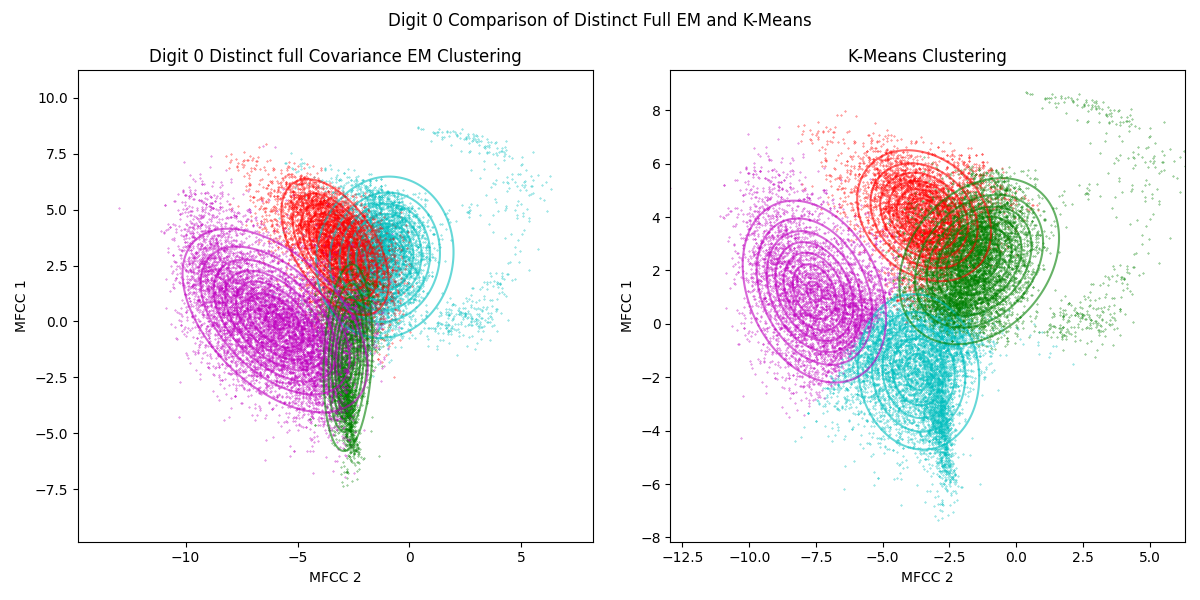
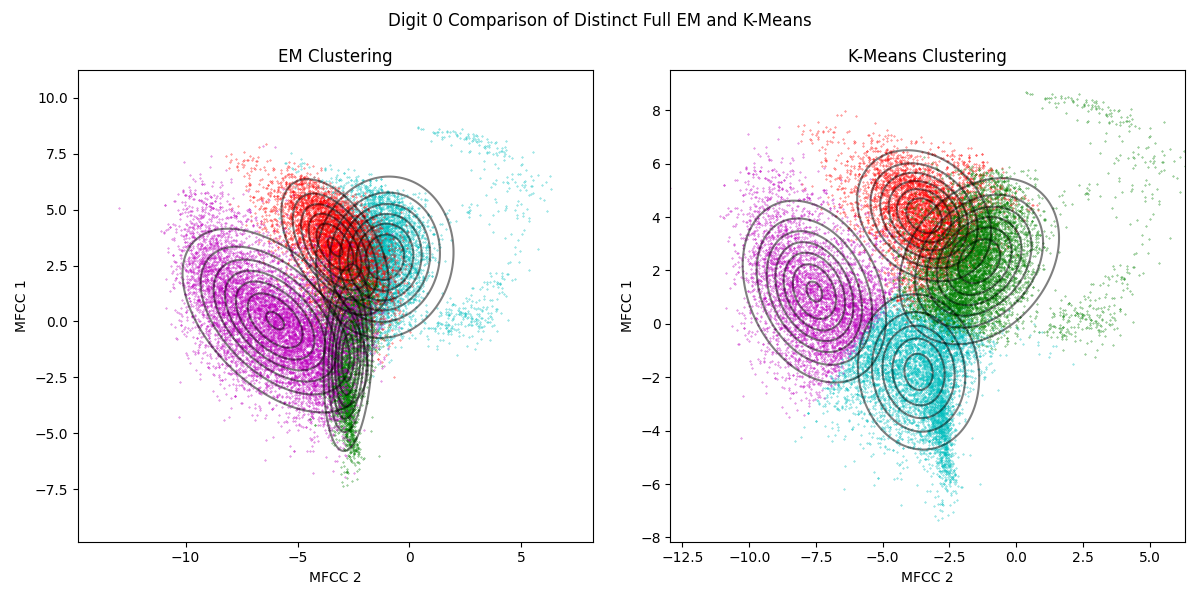
Refactor plotting functions

Changed region(s): [[0.6167, 0.24, 0.8942, 0.75], [0.1542, 0.27, 0.37, 0.75], [0.1233, 0.06, 0.4317, 0.12]]

diff --git a/src/analyzer.py b/src/analyzer.py
@@ -93,7 +93,7 @@ class Analyzer:
                 else:
                     ax.scatter(coords[:, 0], coords[:, 1], s=.1, color=c, alpha=.8)
                 cov = get_comp_covariance(second_comp - 1, first_comp - 1, cluster_info[key]["cov"])
-                plot_kmeans_contours(coords, cov, c, ax)
+                plot_kmeans_contours(coords, cov, ax)
                 color_ind += 1
             # ax.set_title("MFCC " + str(first_comp) + "(y) vs. MFCC" + str(second_comp) + "(x)")
             if ax is None:
@@ -104,7 +104,7 @@ class Analyzer:
                 ax.set_title("K-Means Clustering")
                 ax.set_xlabel("MFCC " + str(second_comp))
                 ax.set_ylabel("MFCC " + str(first_comp))
-                ax.axis("equal")
+                ax.axis('equal')
         # fig.suptitle("K-Means GMMs for Various 2D Plots for Digit " + str(token))
         # plt.tight_layout()
 
@@ -128,14 +128,14 @@ class Analyzer:
                 else:
                     plt.scatter(coords[:, 0], coords[:, 1], s=.1, c=c, alpha=.8)
                 cov = get_comp_covariance(second_comp - 1, first_comp - 1, cluster_info[key]["cov"])
-                plot_em_contours([key[second_comp - 1], key[first_comp - 1]], cov, c, coords, ax)
+                plot_em_contours([key[second_comp - 1], key[first_comp - 1]], cov, coords, ax)
                 color_ind += 1
             # ax.set_title("MFCC " + str(first_comp) + "(y) vs. MFCC" + str(second_comp) + "(x)")
             if ax is not None:
                 ax.set_title(f"EM Clustering")
                 ax.set_xlabel("MFCC " + str(second_comp))
                 ax.set_ylabel("MFCC " + str(first_comp))
-                ax.axis("equal")
+                ax.axis('equal')
             else:
                 plt.title(f"EM Clustering")
                 plt.xlabel("MFCC " + str(second_comp))

diff --git a/src/em.py b/src/em.py
@@ -49,7 +49,7 @@ def fix_em_cov_output(self, covariance, covariance_type, covariance_tied, k):
     return ret
 
 
-def plot_em_contours(mean, cov, color, coords, ax=None):
+def plot_em_contours(mean, cov, coords, ax=None):
     maxx_diff = max([abs(x[0] - mean[0]) for x in coords])
     maxy_diff = max([abs(x[1] - mean[1]) for x in coords])
     x = np.linspace(mean[0] - maxx_diff, mean[0] + maxx_diff, 1000)
@@ -60,9 +60,9 @@ def plot_em_contours(mean, cov, color, coords, ax=None):
     pos[:, :, 0] = X
     pos[:, :, 1] = Y
     if ax is None:
-        plt.contour(X, Y, z.pdf(pos), colors=color, alpha=.6)
+        plt.contour(X, Y, z.pdf(pos), colors='black', alpha=.5)
     else:
-        ax.contour(X, Y, z.pdf(pos), colors=color, alpha=.6)
+        ax.contour(X, Y, z.pdf(pos), colors='black', alpha=.5)
 
 
 def em_component_gmm_helper(cluster_info):

diff --git a/src/kmeans.py b/src/kmeans.py
@@ -37,7 +37,7 @@ def full_covar(data):
     return np.cov(data, rowvar=False)
 
 
-def plot_kmeans_contours(data, cov, color, ax=None):
+def plot_kmeans_contours(data, cov, ax=None):
     mean = np.mean(data, axis=0)
     maxx_diff = max([abs(x[0] - mean[0]) for x in data])
     maxy_diff = max([abs(x[1] - mean[1]) for x in data])
@@ -49,9 +49,9 @@ def plot_kmeans_contours(data, cov, color, ax=None):
     pos[:, :, 0] = X
     pos[:, :, 1] = Y
     if ax is None:
-        plt.contour(X, Y, z.pdf(pos), colors=color, alpha=.6)
+        plt.contour(X, Y, z.pdf(pos), colors='black', alpha=.5)
     else:
-        ax.contour(X, Y, z.pdf(pos), colors=color, alpha=.6)
+        ax.contour(X, Y, z.pdf(pos), colors='black', alpha=.5)
 
 
 def kmeans_component_gmm_helper(cluster_info, data, covariance_type, tied):

diff --git a/src/plotter.py b/src/plotter.py
@@ -232,16 +232,6 @@ def plot_greedy_mfcc():
     pass
 
 
-def test():
-    analyzer = Analyzer()
-    # analyzer.cov["tied"] = False
-    # analyzer.cov["cov_type"] = "full"
-    confusion = analyzer.compute_confusion_matrix()
-    print(f'Accuracy: {np.mean(compute_accuracy(confusion))}')
-    print(f'Precision: {np.mean(compute_precision(confusion))}')
-    plot_confusion_matrix(confusion)
-
-
 if __name__ == '__main__':
     # plot_timeseries()
     # plot_pairwise_scatter()
@@ -253,4 +243,3 @@ if __name__ == '__main__':
     # plot_cov_performance()
     # plot_cluster_accuracy()
     # plot_greedy_mfcc()
-    # test()
